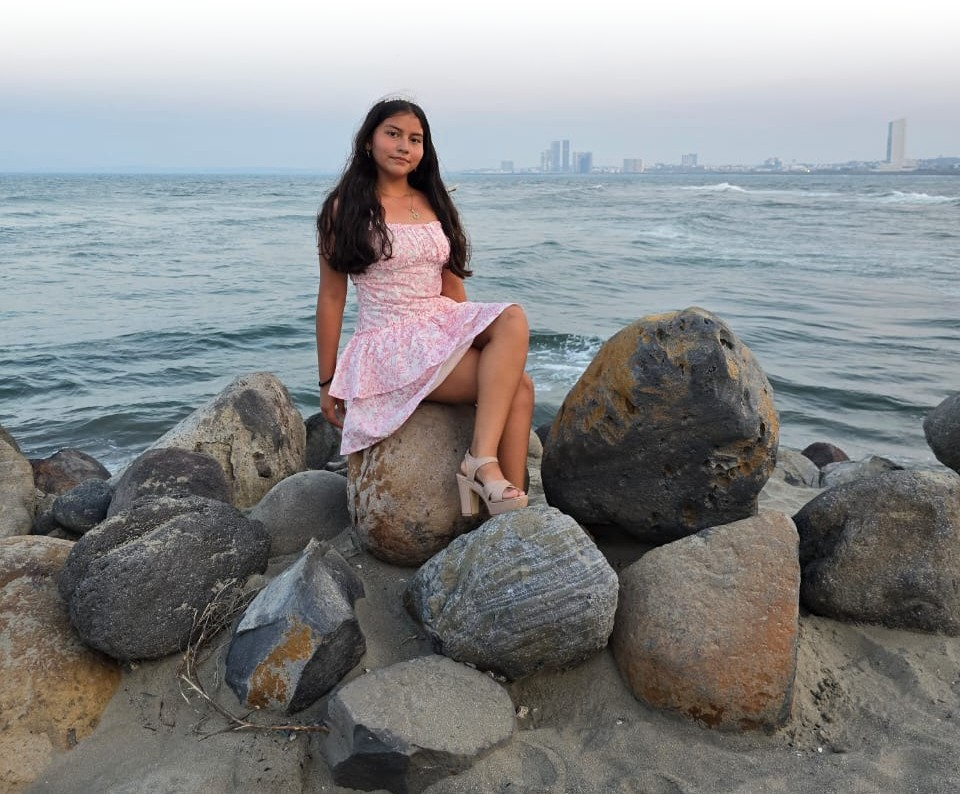
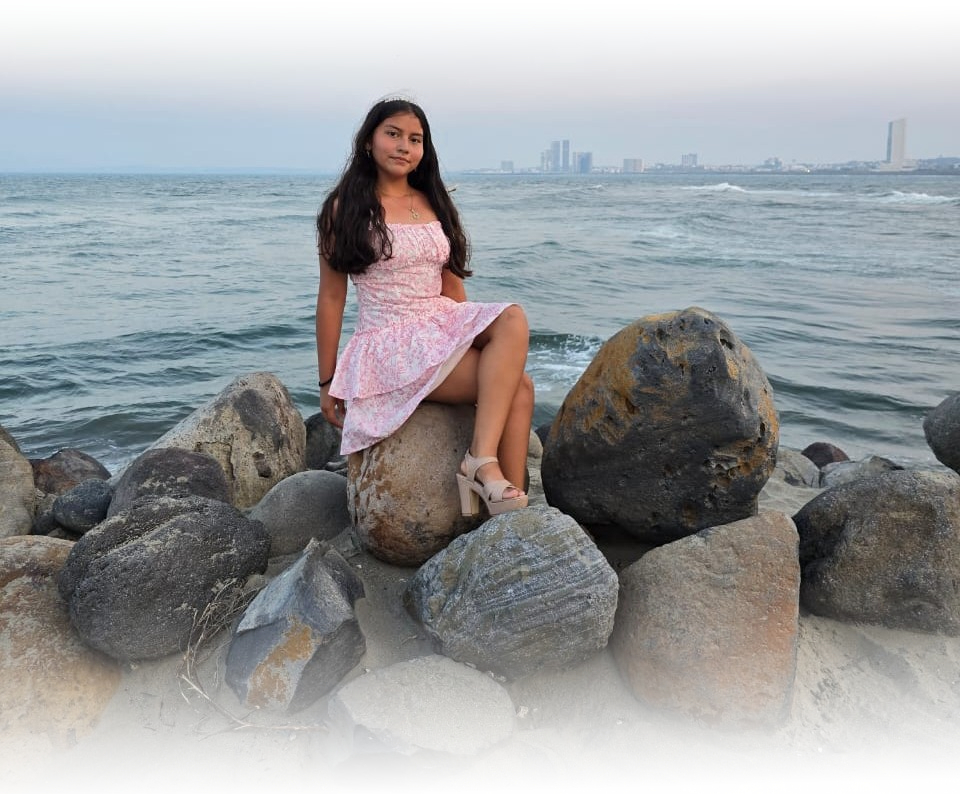
Feat: Imagen padres

Changed region(s): [[0.0, 0.7557, 1.0, 1.0]]

diff --git a/index.html b/index.html
@@ -81,15 +81,17 @@
     
     <main class="container-fluid mt-2" style="position: relative; width: 100%;">
       <div class="row mb-5">
-        <img  src="img/Sofia/Sofia1 (1).jpg" alt="Foto Sofia" style="width: 100vw !important; margin: 0; padding: 0;">
+        <img  src="img/Sofia/Sofia1.jpg" alt="Foto Sofia" style="width: 100vw !important; margin: 0; padding: 0;">
       </div>
       <div class="row text-center c-color-950">
         <h2 class="font-2" data-aos="fade-up-right">
           ¡Celebra con nosotros este dia tan maravilloso!
         </h2>
       </div>
-      <div class="row text-center mt-5">
-        <h3
+      <div class="row ">
+        <img  src="img/Sofia/Sofia5-removebg-preview.png" alt="Foto Padres" style="width: 100vw !important; margin: 0; padding: 0;">
+      </div>
+      <div class="row text-center">        <h3
           class="font-2 text-center c-color-900 aos col-12"
           data-aos="zoom-in-up"
           style="font-size: 25px"
